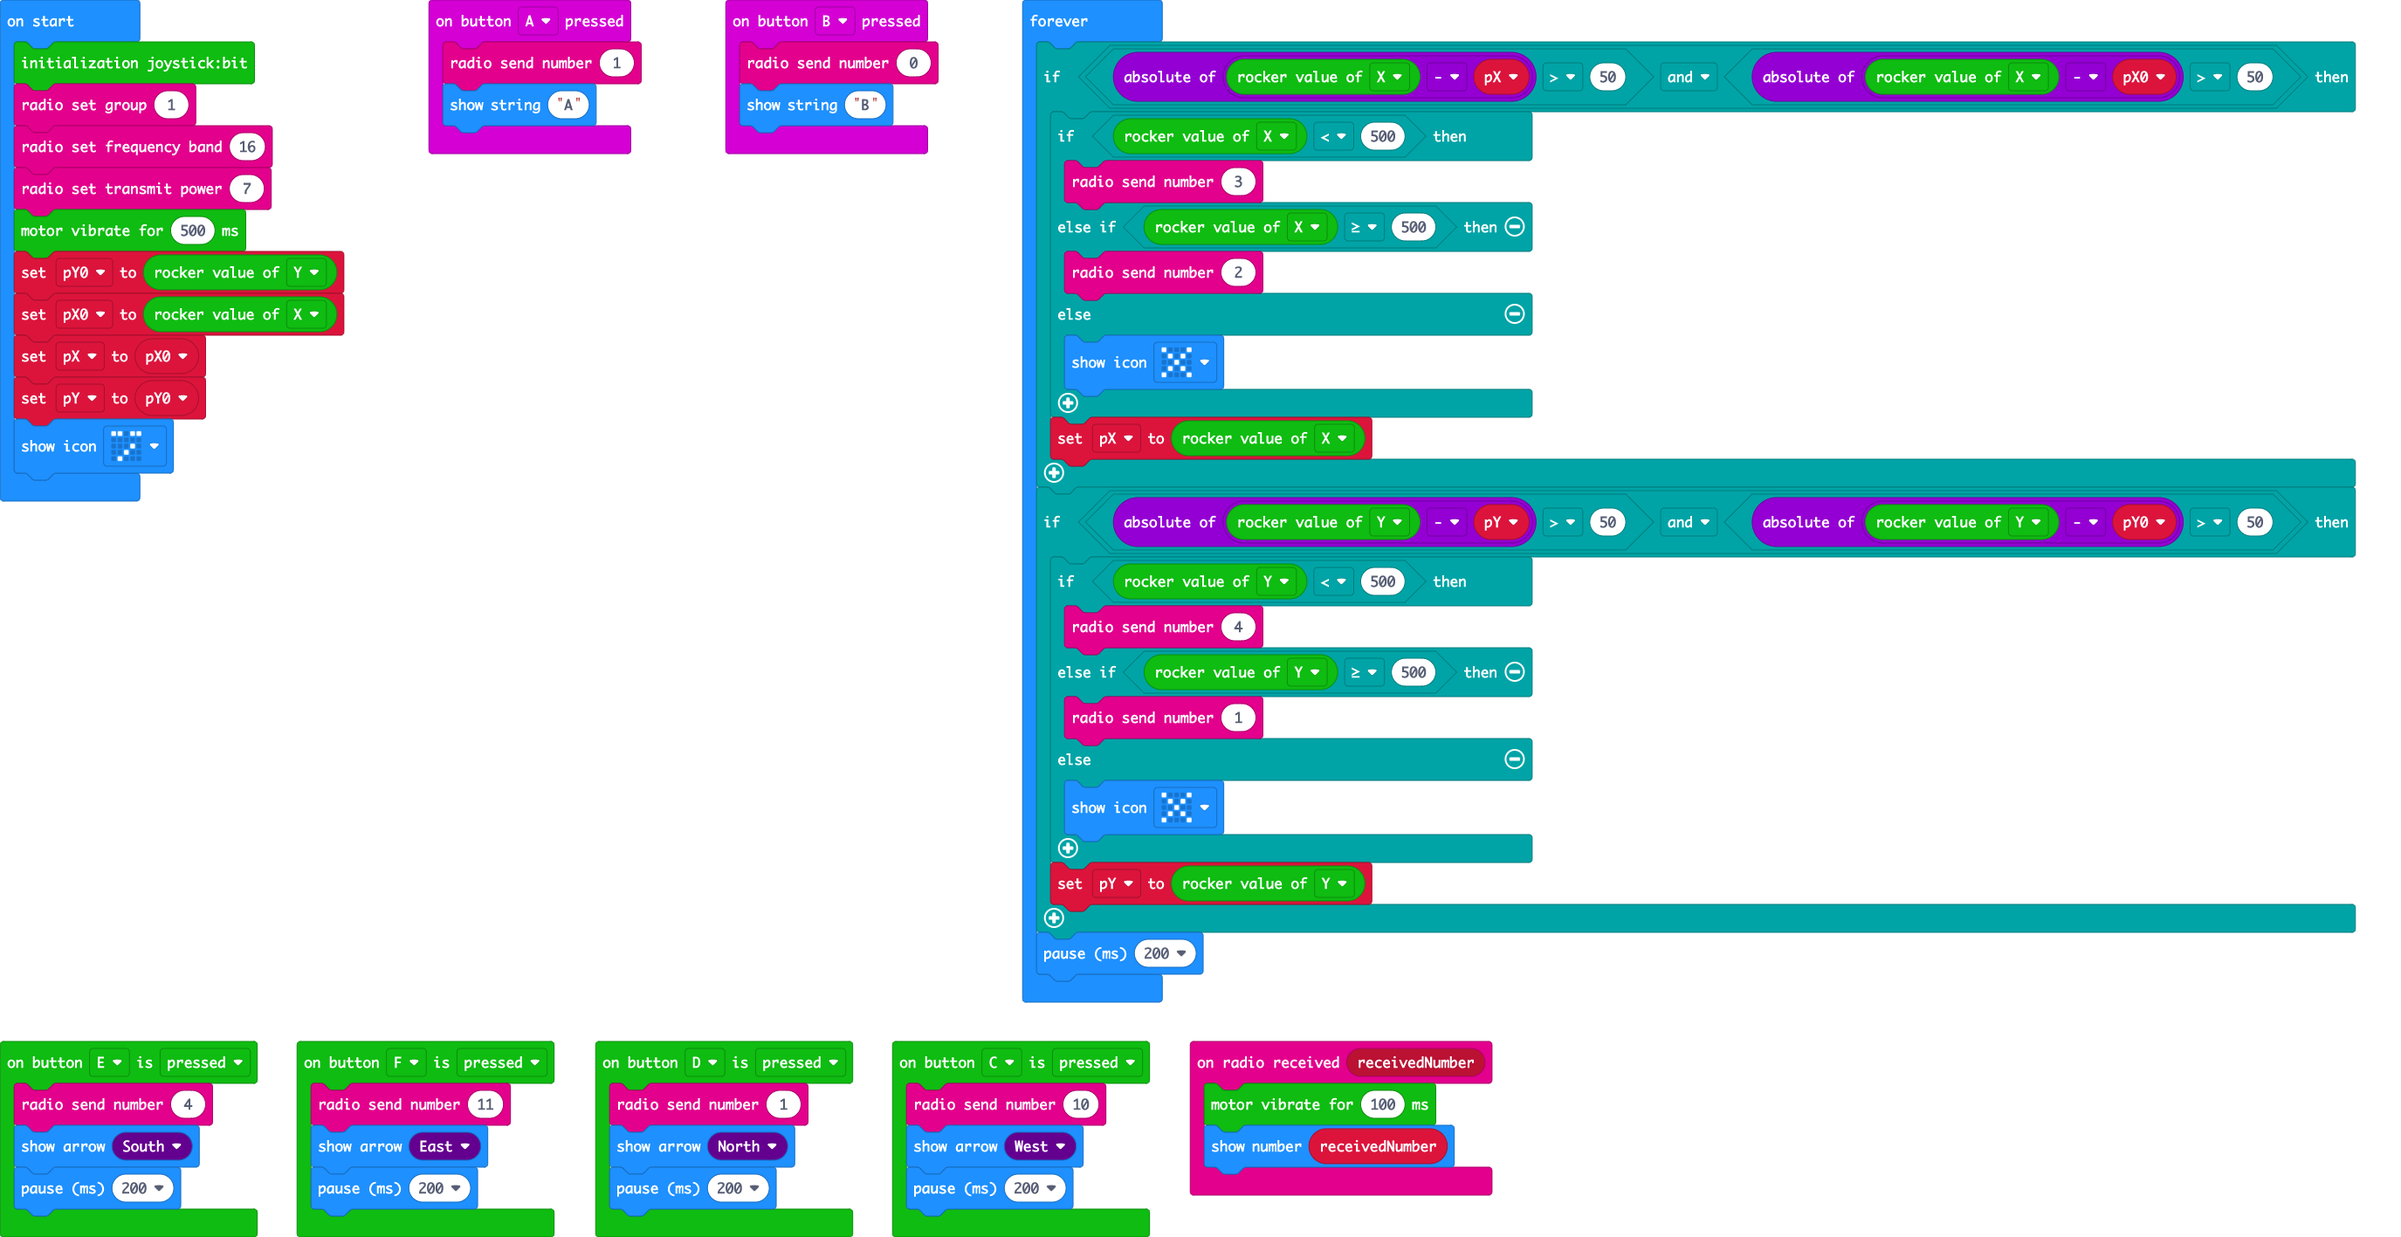
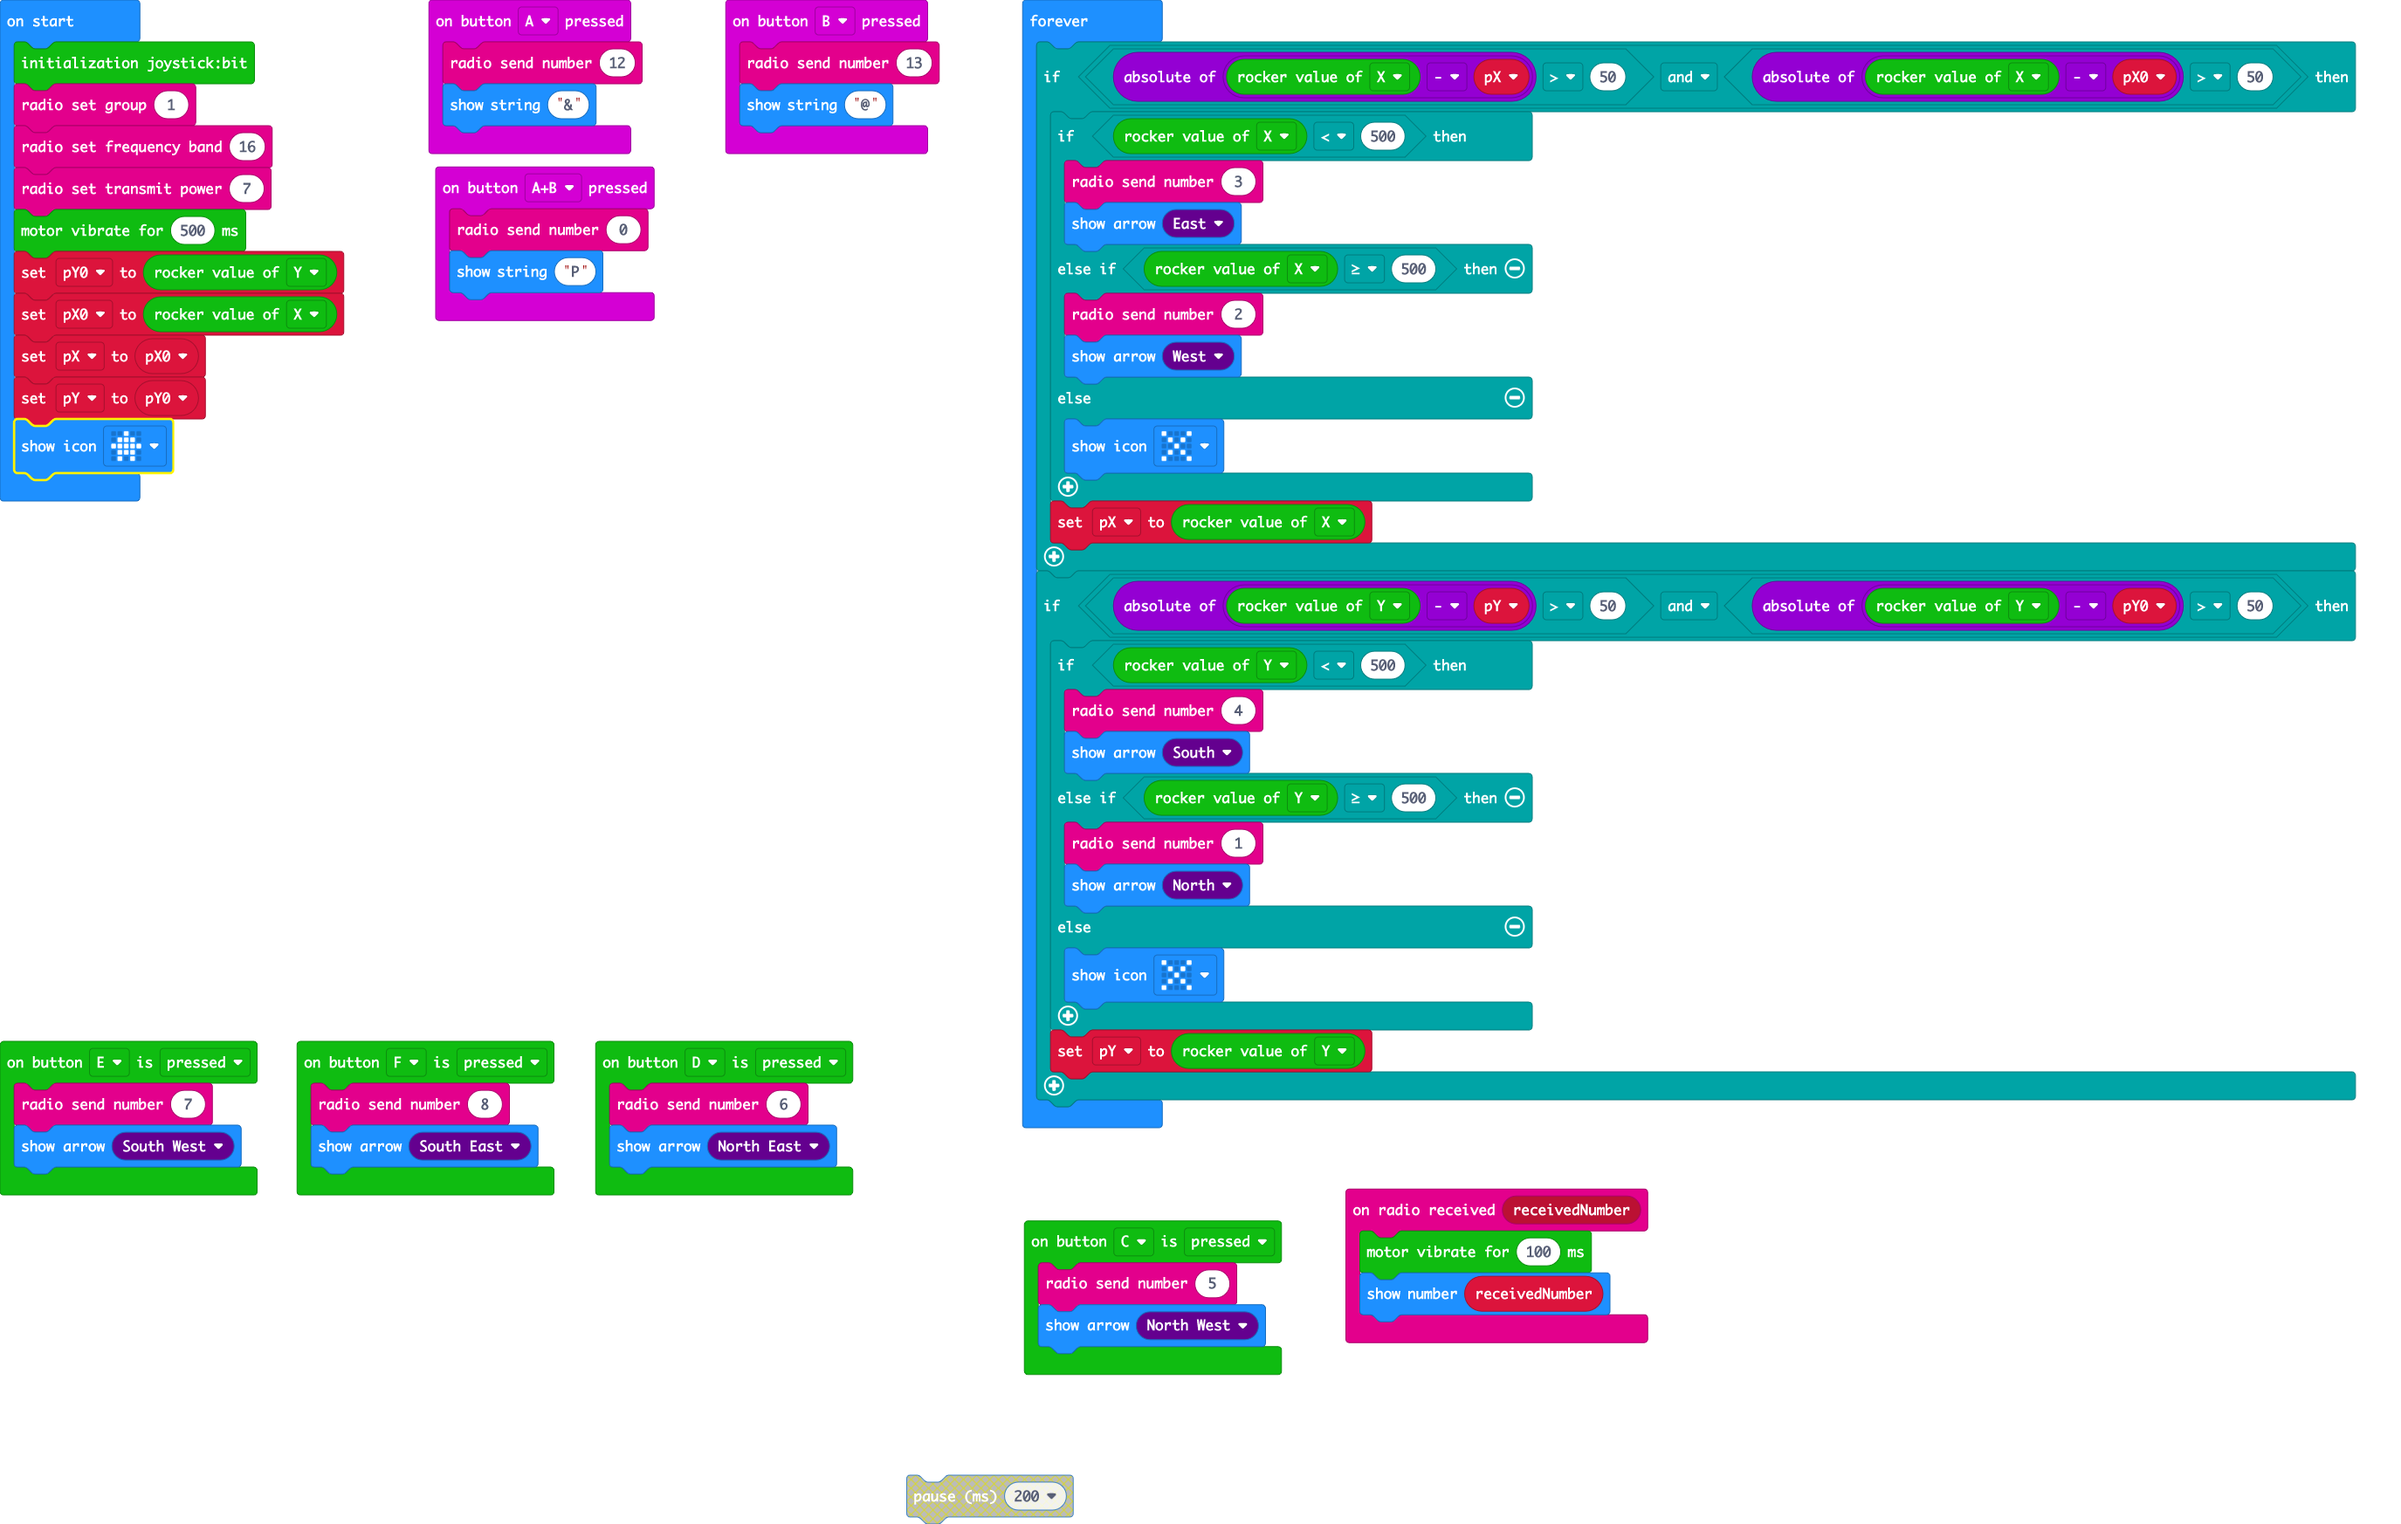
update functionality for more directional choices A+B = P

diff --git a/main.ts b/main.ts
@@ -3,32 +3,32 @@ radio.onReceivedNumber(function (receivedNumber) {
     basic.showNumber(receivedNumber)
 })
 joystickbit.onButtonEvent(joystickbit.JoystickBitPin.P14, joystickbit.ButtonType.down, function () {
-    radio.sendNumber(4)
-    basic.showArrow(ArrowNames.South)
-    basic.pause(200)
+    radio.sendNumber(7)
+    basic.showArrow(ArrowNames.SouthWest)
 })
 input.onButtonPressed(Button.A, function () {
-    radio.sendNumber(1)
-    basic.showString("A")
+    radio.sendNumber(12)
+    basic.showString("&")
 })
 joystickbit.onButtonEvent(joystickbit.JoystickBitPin.P15, joystickbit.ButtonType.down, function () {
-    radio.sendNumber(11)
-    basic.showArrow(ArrowNames.East)
-    basic.pause(200)
+    radio.sendNumber(8)
+    basic.showArrow(ArrowNames.SouthEast)
+})
+input.onButtonPressed(Button.AB, function () {
+    radio.sendNumber(0)
+    basic.showString("P")
 })
 input.onButtonPressed(Button.B, function () {
-    radio.sendNumber(0)
-    basic.showString("B")
+    radio.sendNumber(13)
+    basic.showString("@")
 })
 joystickbit.onButtonEvent(joystickbit.JoystickBitPin.P13, joystickbit.ButtonType.down, function () {
-    radio.sendNumber(1)
-    basic.showArrow(ArrowNames.North)
-    basic.pause(200)
+    radio.sendNumber(6)
+    basic.showArrow(ArrowNames.NorthEast)
 })
 joystickbit.onButtonEvent(joystickbit.JoystickBitPin.P12, joystickbit.ButtonType.down, function () {
-    radio.sendNumber(10)
-    basic.showArrow(ArrowNames.West)
-    basic.pause(200)
+    radio.sendNumber(5)
+    basic.showArrow(ArrowNames.NorthWest)
 })
 joystickbit.initJoystickBit()
 radio.setGroup(1)
@@ -39,13 +39,15 @@ let pY0 = joystickbit.getRockerValue(joystickbit.rockerType.Y)
 let pX0 = joystickbit.getRockerValue(joystickbit.rockerType.X)
 let pX = pX0
 let pY = pY0
-basic.showIcon(IconNames.Meh)
+basic.showIcon(IconNames.House)
 basic.forever(function () {
     if (Math.abs(joystickbit.getRockerValue(joystickbit.rockerType.X) - pX) > 50 && Math.abs(joystickbit.getRockerValue(joystickbit.rockerType.X) - pX0) > 50) {
         if (joystickbit.getRockerValue(joystickbit.rockerType.X) < 500) {
             radio.sendNumber(3)
+            basic.showArrow(ArrowNames.East)
         } else if (joystickbit.getRockerValue(joystickbit.rockerType.X) >= 500) {
             radio.sendNumber(2)
+            basic.showArrow(ArrowNames.West)
         } else {
             basic.showIcon(IconNames.No)
         }
@@ -54,12 +56,13 @@ basic.forever(function () {
     if (Math.abs(joystickbit.getRockerValue(joystickbit.rockerType.Y) - pY) > 50 && Math.abs(joystickbit.getRockerValue(joystickbit.rockerType.Y) - pY0) > 50) {
         if (joystickbit.getRockerValue(joystickbit.rockerType.Y) < 500) {
             radio.sendNumber(4)
+            basic.showArrow(ArrowNames.South)
         } else if (joystickbit.getRockerValue(joystickbit.rockerType.Y) >= 500) {
             radio.sendNumber(1)
+            basic.showArrow(ArrowNames.North)
         } else {
             basic.showIcon(IconNames.No)
         }
         pY = joystickbit.getRockerValue(joystickbit.rockerType.Y)
     }
-    basic.pause(200)
 })
